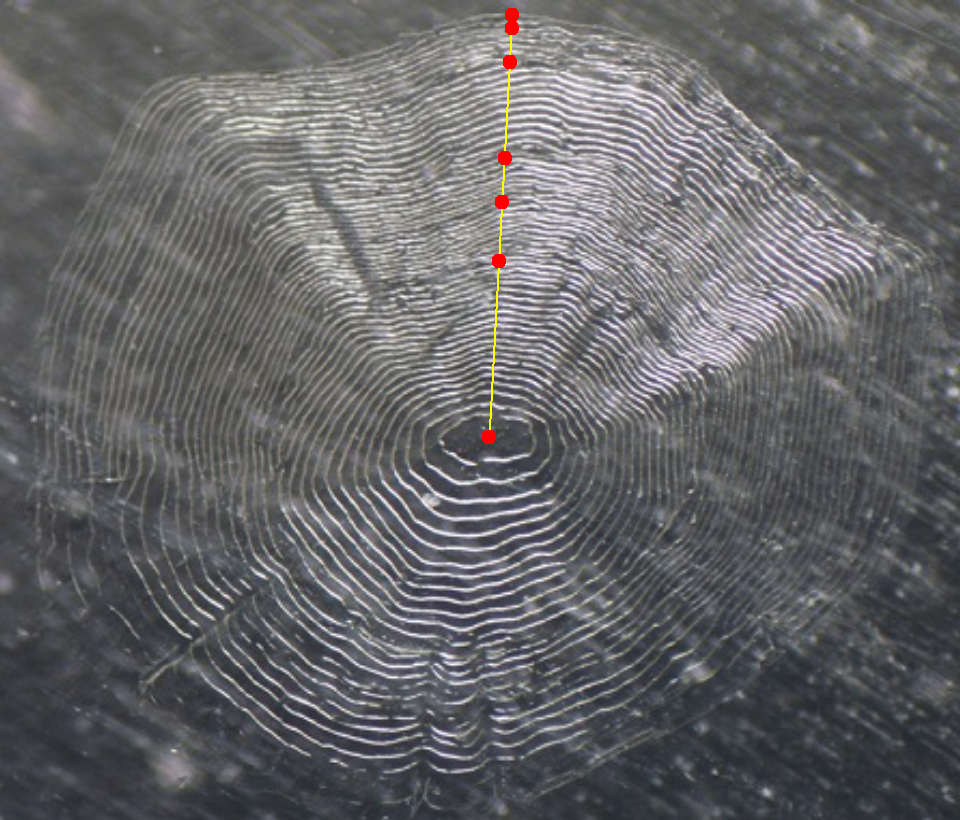
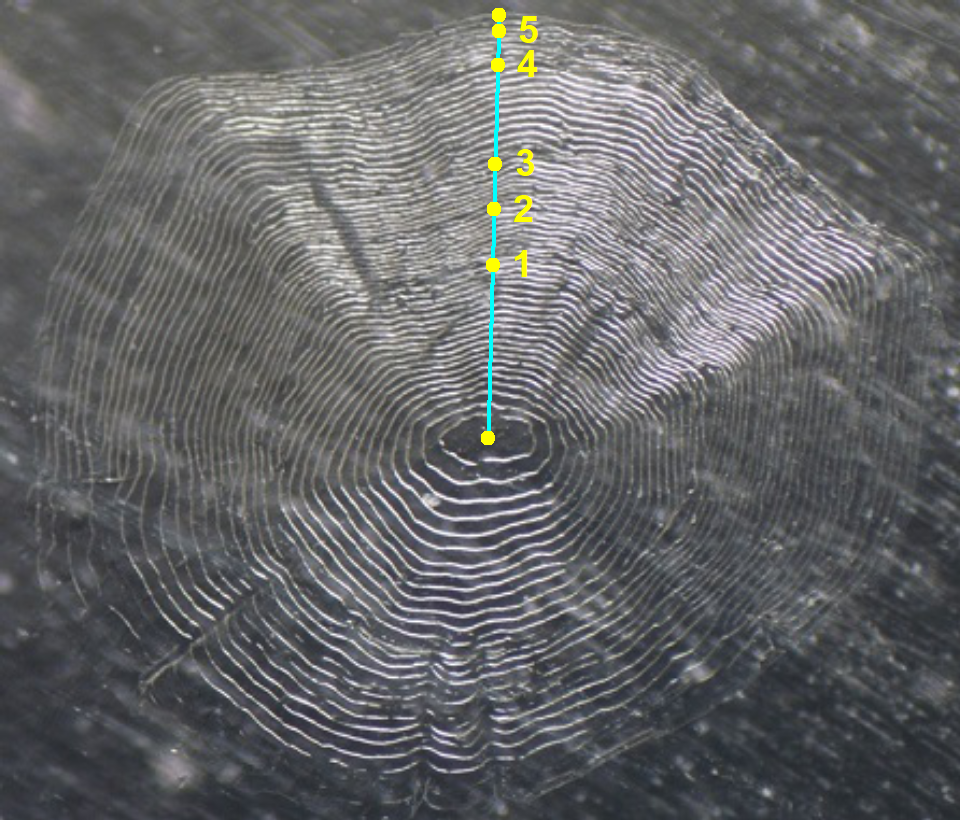
Updated webpage

Changed region(s): [[0.5, 0.0, 0.5625, 0.5488]]

diff --git a/docs/reference/RFBCoptions.html b/docs/reference/RFBCoptions.html
@@ -163,22 +163,26 @@ Additionally, a user may want to change a number of these arguments from their d
 <li><p><code>scalingFactor</code>: A single numeric used to convert measurements on the structure image to actual measurements on the structure. Measurements on the structure image will be multiplied by this value. Ignored if <code>scaleBar=TRUE</code>. Defaults to <code>1</code>. Used in <code><a href='digitizeRadii.html'>digitizeRadii</a></code>.</p></li>
 <li><p><code>scaleBar</code>: A single logical that indicates whether the user will be prompted to select the endpoints of a scale-bar on the structure image. If <code>TRUE</code>, then must also use <code>scaleBarLength</code>. If <code>FALSE</code>, then consider using <code>scalingFactor</code>. Defaults to <code>FALSE</code>. Used in <code><a href='digitizeRadii.html'>digitizeRadii</a></code>.</p></li>
 <li><p><code>scaleBarLength</code>: A single numeric that represents the actual length of the scale-bar. Ignored if <code>scaleBar=FALSE</code>. Defaults to <code>NULL</code>; thus, the user must enter a value if <code>scaleBar=TRUE</code>. Used in <code><a href='digitizeRadii.html'>digitizeRadii</a></code>.</p></li>
-<li><p><code>col.scaleBar</code>: The color of the scale-bar line if <code>scalebar=TRUE</code>. Defaults to <code>"red"</code>. Used in <code><a href='digitizeRadii.html'>digitizeRadii</a></code>, <code><a href='showDigitizedImage.html'>showDigitizedImage</a></code>, and <code><a href='findScalingFactor.html'>findScalingFactor</a></code>.</p></li>
+<li><p><code>col.scaleBar</code>: The color of the scale-bar line if <code>scalebar=TRUE</code>. Defaults to <code>"yellow"</code>. Used in <code><a href='digitizeRadii.html'>digitizeRadii</a></code>, <code><a href='showDigitizedImage.html'>showDigitizedImage</a></code>, and <code><a href='findScalingFactor.html'>findScalingFactor</a></code>.</p></li>
 <li><p><code>lwd.scaleBar</code>: The line width of the scale-bar line if <code>scalebar=TRUE</code>. Defaults to <code>2</code>. Used in <code><a href='digitizeRadii.html'>digitizeRadii</a></code>, <code><a href='showDigitizedImage.html'>showDigitizedImage</a></code>, and <code><a href='findScalingFactor.html'>findScalingFactor</a></code>.</p></li>
 <li><p><code>showTransect</code>: A single logical that indicates whether the transection between the points selected at the structure center and margin should be shown. Defaults to <code>TRUE</code>. Used in <code><a href='digitizeRadii.html'>digitizeRadii</a></code> and  <code><a href='showDigitizedImage.html'>showDigitizedImage</a></code>.</p></li>
 <li><p><code>snap2Transect</code>: A single logical that indicates whether the coordinates of the selected points that represent annuli should be moved to fall exactly on the transect from the structure center to margin. If <code>TRUE</code> then the points will be moved perpendicularly to the transect (and the original user-selected point will not be seen on the image). If <code>FALSE</code> then the points will be where the user selected them. Defaults to <code>TRUE</code>. Used in <code><a href='digitizeRadii.html'>digitizeRadii</a></code>.</p></li>
-<li><p><code>col.transect</code>: The color of the transect line if <code>showTransect=TRUE</code> in <code><a href='digitizeRadii.html'>digitizeRadii</a></code> or <code>showTransect=TRUE</code> in <code><a href='showDigitizedImage.html'>showDigitizedImage</a></code>. Defaults to <code>"yellow"</code>.</p></li>
-<li><p><code>lwd.transect</code>: The width of the transect line if <code>showTransect=TRUE</code> in <code><a href='digitizeRadii.html'>digitizeRadii</a></code> or <code>showTransect=TRUE</code> in <code><a href='showDigitizedImage.html'>showDigitizedImage</a></code>. Defaults to <code>1</code>.</p></li>
-<li><p><code>pch.sel</code>: The plotting character of points for selected annuli in <code><a href='digitizeRadii.html'>digitizeRadii</a></code>. Defaults to <code>3</code> (a &#8220;cross hairs&#8221;).</p></li>
-<li><p><code>col.sel</code>: The color of points for selected annuli in <code><a href='digitizeRadii.html'>digitizeRadii</a></code>. Defaults to <code>"red"</code>.</p></li>
+<li><p><code>col.transect</code>: The color of the transect line if <code>showTransect=TRUE</code>. Defaults to <code>"cyan"</code>. Used  in <code><a href='digitizeRadii.html'>digitizeRadii</a></code> or <code>showTransect=TRUE</code> in <code><a href='showDigitizedImage.html'>showDigitizedImage</a></code>.</p></li>
+<li><p><code>lwd.transect</code>: The width of the transect line if <code>showTransect=TRUE</code>. Defaults to <code>2</code>. Used  in <code><a href='digitizeRadii.html'>digitizeRadii</a></code> or <code>showTransect=TRUE</code> in <code><a href='showDigitizedImage.html'>showDigitizedImage</a></code>.</p></li>
+<li><p><code>pch.sel</code>: The plotting character of points for selected annuli in <code><a href='digitizeRadii.html'>digitizeRadii</a></code>. Defaults to <code>20</code> (a small solid circle).</p></li>
+<li><p><code>col.sel</code>: The color of points for selected annuli in <code><a href='digitizeRadii.html'>digitizeRadii</a></code>. Defaults to <code>"yellow"</code>.</p></li>
 <li><p><code>cex.sel</code>: The character expansion value of points for selected annuli in <code><a href='digitizeRadii.html'>digitizeRadii</a></code>. Defaults to <code>1</code>.</p></li>
-<li><p><code>pch.show</code>: The plotting character for points shown in <code><a href='showDigitizedImage.html'>showDigitizedImage</a></code>. Defaults to <code>19</code> (a solid dot).</p></li>
-<li><p><code>col.show</code>: The color of points shown in <code><a href='showDigitizedImage.html'>showDigitizedImage</a></code>. Defaults to <code>"red"</code>.</p></li>
+<li><p><code>pch.show</code>: The plotting character for points shown in <code><a href='showDigitizedImage.html'>showDigitizedImage</a></code>. Defaults to <code>19</code> (a solid circle).</p></li>
+<li><p><code>col.show</code>: The color of points shown in <code><a href='showDigitizedImage.html'>showDigitizedImage</a></code>. Defaults to <code>"yellow"</code>.</p></li>
 <li><p><code>cex.show</code>: The character expansion value of points shown in <code><a href='showDigitizedImage.html'>showDigitizedImage</a></code>. Defaults to <code>1</code>.</p></li>
 <li><p><code>showInfo</code>: A single logical that indicates whether the ID information should be shown on the image in <code><a href='digitizeRadii.html'>digitizeRadii</a></code>. Defaults to <code>TRUE</code>.</p></li>
 <li><p><code>pos.info</code>: A single character that indicates where the ID information should be placed when <code>showInfo=TRUE</code>. See <code>legend</code> for position choices. Defaults to <code>"topleft"</code>. Used in <code><a href='digitizeRadii.html'>digitizeRadii</a></code>.</p></li>
-<li><p><code>cex.info</code>: The character expansion for the ID information when <code>showInfo=TRUE</code>. Used in <code><a href='digitizeRadii.html'>digitizeRadii</a></code>.</p></li>
-<li><p><code>col.info</code>: The color for the ID information when <code>showInfo=TRUE</code>. Used in <code><a href='digitizeRadii.html'>digitizeRadii</a></code>.</p></li>
+<li><p><code>cex.info</code>: The character expansion for the ID information when <code>showInfo=TRUE</code>. Defaults to <code>1.2</code> Used in <code><a href='digitizeRadii.html'>digitizeRadii</a></code>.</p></li>
+<li><p><code>col.info</code>: The color for the ID information when <code>showInfo=TRUE</code>. Defaults to <code>"yellow"</code>. Used in <code><a href='digitizeRadii.html'>digitizeRadii</a></code>.</p></li>
+<li><p><code>showAnnuliLabels</code>: A single logical that indicates whether annulus labels should be shown on the image from <code><a href='showDigitizedImage.html'>showDigitizedImage</a></code>. Defaults to <code>TRUE</code>, but is ignored if more than one set of annuli will be plotted.</p></li>
+<li><p><code>annuliLabels</code>: A numeric vector that indicates the numbers for which annuli should be labeled when <code>showAnnuliLabels=TRUE</code>. Defaults to <code>NULL</code> which indicates that all annuli should be labelled. Used in <code><a href='showDigitizedImage.html'>showDigitizedImage</a></code>.</p></li>
+<li><p><code>col.ann</code>: The color of the annuli number text when <code>showAnnuliLabels=TRUE</code> in <code><a href='showDigitizedImage.html'>showDigitizedImage</a></code>. Defaults to <code>"yellow"</code>.</p></li>
+<li><p><code>cex.ann</code>: The character expansion value  of the annuli number text when <code>showAnnuliLabels=TRUE</code> in <code><a href='showDigitizedImage.html'>showDigitizedImage</a></code>. Defaults to <code>1.2</code>.</p></li>
 </ul>
     <p>The user will likely only use this function to change arguments at the start of a script, so that those values will be used throughout the analyses in the script. If the values for the arguments need to be changed in any instance of <code><a href='digitizeRadii.html'>digitizeRadii</a></code> or <code><a href='showDigitizedImage.html'>showDigitizedImage</a></code>, then it is more efficient to change the argument within the call to those functions.</p>
 <p>The argument values can be reset to the original defaults by using <code>reset=TRUE</code>. See examples.</p>
@@ -221,7 +225,7 @@ Additionally, a user may want to change a number of these arguments from their d
 #&gt; NULL
 #&gt; 
 #&gt; $col.scaleBar
-#&gt; [1] "red"
+#&gt; [1] "yellow"
 #&gt; 
 #&gt; $lwd.scaleBar
 #&gt; [1] 2
@@ -233,16 +237,16 @@ Additionally, a user may want to change a number of these arguments from their d
 #&gt; [1] TRUE
 #&gt; 
 #&gt; $col.transect
-#&gt; [1] "yellow"
+#&gt; [1] "cyan"
 #&gt; 
 #&gt; $lwd.transect
-#&gt; [1] 1
+#&gt; [1] 2
 #&gt; 
 #&gt; $pch.sel
-#&gt; [1] 3
+#&gt; [1] 20
 #&gt; 
 #&gt; $col.sel
-#&gt; [1] "red"
+#&gt; [1] "yellow"
 #&gt; 
 #&gt; $cex.sel
 #&gt; [1] 1
@@ -251,7 +255,7 @@ Additionally, a user may want to change a number of these arguments from their d
 #&gt; [1] 19
 #&gt; 
 #&gt; $col.show
-#&gt; [1] "red"
+#&gt; [1] "yellow"
 #&gt; 
 #&gt; $cex.show
 #&gt; [1] 1
@@ -262,11 +266,23 @@ Additionally, a user may want to change a number of these arguments from their d
 #&gt; $pos.info
 #&gt; [1] "topleft"
 #&gt; 
-#&gt; $cex.info
-#&gt; [1] 1.5
-#&gt; 
 #&gt; $col.info
 #&gt; [1] "yellow"
+#&gt; 
+#&gt; $cex.info
+#&gt; [1] 1.2
+#&gt; 
+#&gt; $showAnnuliLabels
+#&gt; [1] TRUE
+#&gt; 
+#&gt; $annuliLabels
+#&gt; NULL
+#&gt; 
+#&gt; $col.ann
+#&gt; [1] "yellow"
+#&gt; 
+#&gt; $cex.ann
+#&gt; [1] 1.2
 #&gt; </div><div class='input'>
 <span class='co'>## Show how to see and set one option</span>
 <span class='fu'>RFBCoptions</span>()$<span class='no'>showTransect</span></div><div class='output co'>#&gt; [1] TRUE</div><div class='input'><span class='fu'>RFBCoptions</span>(<span class='kw'>showTransect</span><span class='kw'>=</span><span class='fl'>FALSE</span>)

diff --git a/docs/articles/MeasureRadii/collectRadiiData.html b/docs/articles/MeasureRadii/collectRadiiData.html
@@ -252,12 +252,12 @@
 <p>The radial measurements from one structure may be seen by submitting the RData file name to <code><a href="../../reference/combineData.html">combineData()</a></code> (which assumes that the file is in the current working directory).</p>
 <div class="sourceCode"><pre class="sourceCode r"><code class="sourceCode r"><span class="kw"><a href="../../reference/combineData.html">combineData</a></span>(<span class="st">"Scale_1_DHO.RData"</span>)
 <span class="co">#&gt;   id reading agecap ann       rad    radcap</span>
-<span class="co">#&gt; 1  1     DHO      5   1 0.2146921 0.5146925</span>
-<span class="co">#&gt; 2  1     DHO      5   2 0.2861414 0.5146925</span>
-<span class="co">#&gt; 3  1     DHO      5   3 0.3403185 0.5146925</span>
-<span class="co">#&gt; 4  1     DHO      5   4 0.4571711 0.5146925</span>
-<span class="co">#&gt; 5  1     DHO      5   5 0.4990236 0.5146925</span>
-<span class="co">#&gt; 6  1     DHO      5   6 0.5146925 0.5146925</span></code></pre></div>
+<span class="co">#&gt; 1  1     DHO      5   1 0.2109034 0.5158677</span>
+<span class="co">#&gt; 2  1     DHO      5   2 0.2788706 0.5158677</span>
+<span class="co">#&gt; 3  1     DHO      5   3 0.3346104 0.5158677</span>
+<span class="co">#&gt; 4  1     DHO      5   4 0.4549023 0.5158677</span>
+<span class="co">#&gt; 5  1     DHO      5   5 0.4967415 0.5158677</span>
+<span class="co">#&gt; 6  1     DHO      5   6 0.5158677 0.5158677</span></code></pre></div>
 <p> </p>
 <p> </p>
 <hr>
@@ -281,18 +281,18 @@
 <p>The result of <code><a href="../../reference/listFiles.html">listFiles()</a></code> should be saved to an object so that the list of name can be given to <code><a href="../../reference/combineData.html">combineData()</a></code> as shown below.</p>
 <div class="sourceCode"><pre class="sourceCode r"><code class="sourceCode r">( dfrad &lt;-<span class="st"> </span><span class="kw"><a href="../../reference/combineData.html">combineData</a></span>(fns) )
 <span class="co">#&gt;    id reading agecap ann       rad    radcap</span>
-<span class="co">#&gt; 1   1     DHO      5   1 0.2146921 0.5146925</span>
-<span class="co">#&gt; 2   1     DHO      5   2 0.2861414 0.5146925</span>
-<span class="co">#&gt; 3   1     DHO      5   3 0.3403185 0.5146925</span>
-<span class="co">#&gt; 4   1     DHO      5   4 0.4571711 0.5146925</span>
-<span class="co">#&gt; 5   1     DHO      5   5 0.4990236 0.5146925</span>
-<span class="co">#&gt; 6   1     DHO      5   6 0.5146925 0.5146925</span>
-<span class="co">#&gt; 7   2     DHO      5   1 0.1620637 0.4651991</span>
-<span class="co">#&gt; 8   2     DHO      5   2 0.2544591 0.4651991</span>
-<span class="co">#&gt; 9   2     DHO      5   3 0.3387704 0.4651991</span>
-<span class="co">#&gt; 10  2     DHO      5   4 0.4214229 0.4651991</span>
-<span class="co">#&gt; 11  2     DHO      5   5 0.4505943 0.4651991</span>
-<span class="co">#&gt; 12  2     DHO      5   6 0.4651991 0.4651991</span></code></pre></div>
+<span class="co">#&gt; 1   1     DHO      5   1 0.2109034 0.5158677</span>
+<span class="co">#&gt; 2   1     DHO      5   2 0.2788706 0.5158677</span>
+<span class="co">#&gt; 3   1     DHO      5   3 0.3346104 0.5158677</span>
+<span class="co">#&gt; 4   1     DHO      5   4 0.4549023 0.5158677</span>
+<span class="co">#&gt; 5   1     DHO      5   5 0.4967415 0.5158677</span>
+<span class="co">#&gt; 6   1     DHO      5   6 0.5158677 0.5158677</span>
+<span class="co">#&gt; 7   2     DHO      5   1 0.1247997 0.3804210</span>
+<span class="co">#&gt; 8   2     DHO      5   2 0.2212460 0.3804210</span>
+<span class="co">#&gt; 9   2     DHO      5   3 0.2920932 0.3804210</span>
+<span class="co">#&gt; 10  2     DHO      5   4 0.3427057 0.3804210</span>
+<span class="co">#&gt; 11  2     DHO      5   5 0.3620875 0.3804210</span>
+<span class="co">#&gt; 12  2     DHO      5   6 0.3804210 0.3804210</span></code></pre></div>
 </div>
 <div id="output-data-file" class="section level1">
 <h1 class="hasAnchor">
@@ -303,27 +303,27 @@
 <span class="st">  </span><span class="kw">inner_join</span>(dfrad,<span class="dt">by=</span><span class="st">"id"</span>)
 dffish
 <span class="co">#&gt;    id  loc sex len reading agecap ann       rad    radcap</span>
-<span class="co">#&gt; 1   1 MI-5   M 189     DHO      5   1 0.2146921 0.5146925</span>
-<span class="co">#&gt; 2   1 MI-5   M 189     DHO      5   2 0.2861414 0.5146925</span>
-<span class="co">#&gt; 3   1 MI-5   M 189     DHO      5   3 0.3403185 0.5146925</span>
-<span class="co">#&gt; 4   1 MI-5   M 189     DHO      5   4 0.4571711 0.5146925</span>
-<span class="co">#&gt; 5   1 MI-5   M 189     DHO      5   5 0.4990236 0.5146925</span>
-<span class="co">#&gt; 6   1 MI-5   M 189     DHO      5   6 0.5146925 0.5146925</span>
-<span class="co">#&gt; 7   2 MI-6   F 210     DHO      5   1 0.1620637 0.4651991</span>
-<span class="co">#&gt; 8   2 MI-6   F 210     DHO      5   2 0.2544591 0.4651991</span>
-<span class="co">#&gt; 9   2 MI-6   F 210     DHO      5   3 0.3387704 0.4651991</span>
-<span class="co">#&gt; 10  2 MI-6   F 210     DHO      5   4 0.4214229 0.4651991</span>
-<span class="co">#&gt; 11  2 MI-6   F 210     DHO      5   5 0.4505943 0.4651991</span>
-<span class="co">#&gt; 12  2 MI-6   F 210     DHO      5   6 0.4651991 0.4651991</span></code></pre></div>
+<span class="co">#&gt; 1   1 MI-5   M 189     DHO      5   1 0.2109034 0.5158677</span>
+<span class="co">#&gt; 2   1 MI-5   M 189     DHO      5   2 0.2788706 0.5158677</span>
+<span class="co">#&gt; 3   1 MI-5   M 189     DHO      5   3 0.3346104 0.5158677</span>
+<span class="co">#&gt; 4   1 MI-5   M 189     DHO      5   4 0.4549023 0.5158677</span>
+<span class="co">#&gt; 5   1 MI-5   M 189     DHO      5   5 0.4967415 0.5158677</span>
+<span class="co">#&gt; 6   1 MI-5   M 189     DHO      5   6 0.5158677 0.5158677</span>
+<span class="co">#&gt; 7   2 MI-6   F 210     DHO      5   1 0.1247997 0.3804210</span>
+<span class="co">#&gt; 8   2 MI-6   F 210     DHO      5   2 0.2212460 0.3804210</span>
+<span class="co">#&gt; 9   2 MI-6   F 210     DHO      5   3 0.2920932 0.3804210</span>
+<span class="co">#&gt; 10  2 MI-6   F 210     DHO      5   4 0.3427057 0.3804210</span>
+<span class="co">#&gt; 11  2 MI-6   F 210     DHO      5   5 0.3620875 0.3804210</span>
+<span class="co">#&gt; 12  2 MI-6   F 210     DHO      5   6 0.3804210 0.3804210</span></code></pre></div>
 <p>Some people prefer that the data be presented in “one-fish-per-line” rather than “one-measurement-per-line” (as in <code>dffish</code>) format. The one-measurement-per-line data.frame can be converted to one-fish-per-line by including it as the first argument to <code>spread()</code>. In addition, the variable that identifies the annuli number must be included in <code>key=</code> and the variable that identifies the radial measurements must be included in <code>value=</code>. The <code>sep=</code> argument is used here as well so that the column names in the resultant data.frame are not simply numbers. In this case, the new variable names will be a combination of the variable name in <code>key=</code>, the string in <code>sep=</code>, and the numbers in the <code>value=</code> variable.</p>
 <div class="sourceCode"><pre class="sourceCode r"><code class="sourceCode r">dffish2 &lt;-<span class="st"> </span><span class="kw">spread</span>(dffish,<span class="dt">key=</span>ann,<span class="dt">value=</span>rad,<span class="dt">sep=</span><span class="st">"rad"</span>)
 dffish2
 <span class="co">#&gt;   id  loc sex len reading agecap    radcap   annrad1   annrad2   annrad3</span>
-<span class="co">#&gt; 1  1 MI-5   M 189     DHO      5 0.5146925 0.2146921 0.2861414 0.3403185</span>
-<span class="co">#&gt; 2  2 MI-6   F 210     DHO      5 0.4651991 0.1620637 0.2544591 0.3387704</span>
+<span class="co">#&gt; 1  1 MI-5   M 189     DHO      5 0.5158677 0.2109034 0.2788706 0.3346104</span>
+<span class="co">#&gt; 2  2 MI-6   F 210     DHO      5 0.3804210 0.1247997 0.2212460 0.2920932</span>
 <span class="co">#&gt;     annrad4   annrad5   annrad6</span>
-<span class="co">#&gt; 1 0.4571711 0.4990236 0.5146925</span>
-<span class="co">#&gt; 2 0.4214229 0.4505943 0.4651991</span></code></pre></div>
+<span class="co">#&gt; 1 0.4549023 0.4967415 0.5158677</span>
+<span class="co">#&gt; 2 0.3427057 0.3620875 0.3804210</span></code></pre></div>
 <p>Either file can be written to a “comma-separated values” (CSV) file<a href="#fn10" class="footnoteRef" id="fnref10"><sup>10</sup></a> with <code>write.csv()</code> using the R object name (e.g., <code>dffish</code> or <code>dffish2</code>) as the first argument and a name for the file in <code>file=</code>. Additionally, I prefer to have non-quoted values by using <code>quote=FALSE</code> and no row names by using <code>row.names=FALSE</code>. For example, the “one-measurement-per-line” data can be output to “Kiyi2014_BCs.csv” as follows.</p>
 <div class="sourceCode"><pre class="sourceCode r"><code class="sourceCode r"><span class="kw">write.csv</span>(dffish,<span class="dt">file=</span><span class="st">"Kiyi2014_BCs.csv"</span>,<span class="dt">quote=</span><span class="ot">FALSE</span>,<span class="dt">row.names=</span><span class="ot">FALSE</span>)</code></pre></div>
 <p> </p>

diff --git a/docs/articles/MeasureRadii/seeRadiiData.html b/docs/articles/MeasureRadii/seeRadiiData.html
@@ -108,6 +108,7 @@
 <ul>
 <li>“Scale_1_DHO.RData”: annular points selected on the “Scale_1.jpg” file in the <a href="collectRadiiData.html">Collecting Radial Measurements</a> vignette.</li>
 <li>“Scale_1_DHO2.RData”: a second set of annular points selected on the “Scale_1.jpg” file in the <a href="collectRadiiData.html">Collecting Radial Measurements</a> vignette.</li>
+<li>“Scale_1_DHO3.RData”: a third set of annular points selected on the “Scale_1.jpg” file in the <a href="collectRadiiData.html">Collecting Radial Measurements</a> vignette.</li>
 <li>“Oto140306_DHO.RData”: annular points selected on the “Oto140306.jpg” file. In contrast to the previous two images, this image had a 1-mm scale-bar. This RData file was created with the following code.</li>
 </ul>
 <div class="sourceCode"><pre class="sourceCode r"><code class="sourceCode r"><span class="kw"><a href="../../reference/digitizeRadii.html">digitizeRadii</a></span>(<span class="st">"Oto140306.jpg"</span>,<span class="dt">id=</span><span class="st">"140306"</span>,<span class="dt">reading=</span><span class="st">"DHO"</span>,
@@ -123,11 +124,12 @@
 <div id="visualize-one-set-of-annuli" class="section level1">
 <h1 class="hasAnchor">
 <a href="#visualize-one-set-of-annuli" class="anchor"></a>Visualize one Set of Annuli</h1>
-<p>You can review the selected annuli on a structure with <code><a href="../../reference/showDigitizedImage.html">showDigitizedImage()</a></code>, which requires only the name of an RData file creates from <code><a href="../../reference/digitizeRadii.html">digitizeRadii()</a></code>.<a href="#fn1" class="footnoteRef" id="fnref1"><sup>1</sup></a> The plotting character, color, and relative size of the selected points may be changed with <code>pch.show=</code>, <code>col.show=</code>, and <code>cex.show=</code>, respectively. The color and width of the “transect” may be changed with <code>col.transect=</code> and <code>lwd.transect=</code>, or excluded altogether with <code>showTransect=FALSE</code>. Defaults for these arguments can be set with <code><a href="../../reference/RFBCoptions.html">RFBCoptions()</a></code> as was demonstrated in the <a href="collectRadiiData.html#setoptions1">Setting Arguments section of this vignette</a></p>
+<p>You can review the selected annuli on a structure with <code><a href="../../reference/showDigitizedImage.html">showDigitizedImage()</a></code>, which requires only the name of an RData file creates from <code><a href="../../reference/digitizeRadii.html">digitizeRadii()</a></code>.<a href="#fn1" class="footnoteRef" id="fnref1"><sup>1</sup></a> The plotting character, color, and relative size of the selected points may be changed with <code>pch.show=</code>, <code>col.show=</code>, and <code>cex.show=</code>, respectively. The color and width of the “transect” may be changed with <code>col.transect=</code> and <code>lwd.transect=</code>, or excluded altogether with <code>showTransect=FALSE</code>. Annuli will be numbered if <code>showAnnuliLabels=TRUE</code> (the default) with label colors and relative size changed with <code>col.ann=</code> and <code>cex.ann=</code>, respectively. Annuli for which numbers are plotted may be controlled with <code>annuliLabels=</code> (e.g., only the first six are shown for the Kiyi otolith below). Defaults for these arguments can be set with <code><a href="../../reference/RFBCoptions.html">RFBCoptions()</a></code> as was demonstrated in the <a href="collectRadiiData.html#setoptions1">Setting Arguments section of this vignette</a></p>
 <div class="sourceCode"><pre class="sourceCode r"><code class="sourceCode r"><span class="kw"><a href="../../reference/showDigitizedImage.html">showDigitizedImage</a></span>(<span class="st">"Scale_1_DHO.RData"</span>)</code></pre></div>
 <p><img src="seeRadiiData_files/figure-html/unnamed-chunk-4-1.png" width="480"></p>
 <div class="sourceCode"><pre class="sourceCode r"><code class="sourceCode r"><span class="kw"><a href="../../reference/showDigitizedImage.html">showDigitizedImage</a></span>(<span class="st">"Oto140306_DHO.RData"</span>,<span class="dt">pch.show=</span><span class="st">"+"</span>,<span class="dt">col.show=</span><span class="st">"blue"</span>,
-                   <span class="dt">col.transect=</span><span class="st">"white"</span>,<span class="dt">lwd.transect=</span><span class="dv">2</span>)</code></pre></div>
+                   <span class="dt">col.transect=</span><span class="st">"white"</span>,<span class="dt">col.ann=</span><span class="st">"black"</span>,<span class="dt">cex.ann=</span><span class="dv">1</span>,
+                   <span class="dt">annuliLabels=</span><span class="dv">1</span><span class="op">:</span><span class="dv">6</span>)</code></pre></div>
 <p><img src="seeRadiiData_files/figure-html/unnamed-chunk-6-1.png" width="480"></p>
 <p> </p>
 <p> </p>
@@ -147,7 +149,7 @@
 <p>The multiple readings of “Scale_1” can be seen by giving this set of filenames to <code><a href="../../reference/showDigitizedImage.html">showDigitizedImage()</a></code>.</p>
 <div class="sourceCode"><pre class="sourceCode r"><code class="sourceCode r"><span class="kw"><a href="../../reference/showDigitizedImage.html">showDigitizedImage</a></span>(fns)</code></pre></div>
 <p><img src="seeRadiiData_files/figure-html/unnamed-chunk-10-1.png" width="480"></p>
-<p>Aspects of the transects and points may be controlled with arguments to <code>showDigitezedData()</code>. For example, the code below uses different colors for each transect and points, and a thicker line for each transect.</p>
+<p>Aspects of the transects and points may be controlled with arguments to <code>showDigitezedData()</code>. For example, the code below uses different colors for each transect and points.</p>
 <div class="sourceCode"><pre class="sourceCode r"><code class="sourceCode r"><span class="kw"><a href="../../reference/showDigitizedImage.html">showDigitizedImage</a></span>(fns,<span class="dt">col.transect=</span><span class="kw">c</span>(<span class="st">"red"</span>,<span class="st">"yellow"</span>,<span class="st">"green"</span>),
                    <span class="dt">col.show=</span><span class="kw">c</span>(<span class="st">"yellow"</span>,<span class="st">"red"</span>,<span class="st">"blue"</span>),<span class="dt">lwd.transect=</span><span class="dv">2</span>)</code></pre></div>
 <p><img src="seeRadiiData_files/figure-html/unnamed-chunk-12-1.png" width="480"></p>

diff --git a/docs/news/index.html b/docs/news/index.html
@@ -126,13 +126,19 @@
 <li>
 <code><a href="../reference/digitizeRadii.html">digitizeRadii()</a></code>: Modified. Slight modification to the messages in the console. Re worked the code with <code>locator()</code> so that the points will be shown “snapped to the transect” if <code>snap2Transect=TRUE</code> (this addresses <a href="https://github.com/droglenc/RFishBC/issues/7"><a href='https://github.com/droglenc/RFishBC/issues/7'>#7</a></a>). Added an <code>orig.pts</code> data.frame to the RData object which contains the original (non-snapped to transect) points (which can be plotted with <code><a href="../reference/showDigitizedImage.html">showDigitizedImage()</a></code>). Changed <code>addTransect=</code> to <code>showTransect=</code> to make more similar to <code>showDigitezedImages()</code>.</li>
 <li>
-<code><a href="../reference/showDigitizedImage.html">showDigitizedImage()</a></code>: Modified. Added <code>showOrigPts=</code>, <code>pch.show2=</code>, <code>col.show2=</code>, and <code>cex.show2=</code> to handle including original points on the image.</li>
+<code><a href="../reference/RFBCoptions.html">RFBCoptions()</a></code>: Modified. Added <code>showAnnuliLabels=</code>, <code>col.ann=</code>, and <code>cex.ann=</code> for use in <code><a href="../reference/showDigitizedImage.html">showDigitizedImage()</a></code>. Changed defaults of mostly colors, pchs, and cexs.</li>
+<li>
+<code><a href="../reference/showDigitizedImage.html">showDigitizedImage()</a></code>: Modified. Added <code>showAnnuliLabels=</code>, <code>col.ann=</code>, and <code>cex.ann=</code> to shown annuli numbers when just one transect is shown. Added <code>showOrigPts=</code>, <code>pch.show2=</code>, <code>col.show2=</code>, and <code>cex.show2=</code> to handle including original points on the image.</li>
 <li>
 <code><a href="../reference/FSA-internals.html">iFindTransect()</a></code>: Added. Moved this code out of <code>iSelectAnnuli()</code>.</li>
 <li>
 <code><a href="../reference/FSA-internals.html">iGetImage()</a></code>: Modified. Streamlined code. Added <code>native=TRUE</code> to <code>read.bitmap()</code> call to send to the underlying functions as this is apparently more efficient when using <code>rasterImage()</code> (which this uses).</li>
 <li>
+<code>iOrderPts()</code>: Added. Made it easier to add annuli labels in <code><a href="../reference/showDigitizedImage.html">showDigitizedImage()</a></code>.</li>
+<li>
 <code>iSelectAnnuli()</code>: Modified. Now calls <code>iSelectTransect()</code>.</li>
+<li>
+<code>iShowAnnuliLabels()</code>: Added. Made it easier to add annuli labels in <code><a href="../reference/showDigitizedImage.html">showDigitizedImage()</a></code>.</li>
 <li>
 <code>ishowTransect()</code>: Added. Moved this code out of <code>iSelectAnnuli()</code>. Also called from <code><a href="../reference/showDigitizedImage.html">showDigitizedImage()</a></code>.</li>
 </ul>

diff --git a/docs/reference/bcFuns.html b/docs/reference/bcFuns.html
@@ -189,14 +189,14 @@
     <h2 class="hasAnchor" id="examples"><a class="anchor" href="#examples"></a>Examples</h2>
     <pre class="examples"><div class='input'><span class='co'>## Simple Examples</span>
 ( <span class='no'>bcm1</span> <span class='kw'>&lt;-</span> <span class='fu'>bcFuns</span>(<span class='fl'>1</span>) )</div><div class='output co'>#&gt; function(Lc,Ri,Rc) { (Ri/Rc)*Lc }
-#&gt; &lt;environment: 0x0000000015e8f0b8&gt;</div><div class='input'><span class='fu'>bcm1</span>(<span class='fl'>20</span>,<span class='fl'>10</span>,<span class='fl'>40</span>)</div><div class='output co'>#&gt; [1] 5</div><div class='input'>
+#&gt; &lt;environment: 0x00000000081fa658&gt;</div><div class='input'><span class='fu'>bcm1</span>(<span class='fl'>20</span>,<span class='fl'>10</span>,<span class='fl'>40</span>)</div><div class='output co'>#&gt; [1] 5</div><div class='input'>
 <span class='co'>## Example with dummy length-at-cap, radii-at-cap, and radii-at-age</span>
 <span class='no'>lencap</span> <span class='kw'>&lt;-</span> <span class='fu'>c</span>(<span class='fl'>100</span>,<span class='fl'>100</span>,<span class='fl'>100</span>,<span class='fl'>150</span>,<span class='fl'>150</span>)
 <span class='no'>radcap</span> <span class='kw'>&lt;-</span> <span class='fu'>c</span>(<span class='fl'>20</span>,<span class='fl'>20</span>,<span class='fl'>20</span>,<span class='fl'>30</span>,<span class='fl'>30</span>)
 <span class='no'>rad</span>    <span class='kw'>&lt;-</span> <span class='fu'>c</span>( <span class='fl'>5</span>,<span class='fl'>10</span>,<span class='fl'>15</span>,<span class='fl'>15</span>,<span class='fl'>25</span>)
 <span class='fu'>bcm1</span>(<span class='no'>lencap</span>,<span class='no'>rad</span>,<span class='no'>radcap</span>)</div><div class='output co'>#&gt; [1]  25  50  75  75 125</div><div class='input'>
 ( <span class='no'>bcm2</span> <span class='kw'>&lt;-</span> <span class='fu'>bcFuns</span>(<span class='st'>"FRALE"</span>) )</div><div class='output co'>#&gt; function(Lc,Ri,Rc,a) { a+(Lc-a)*(Ri/Rc) }
-#&gt; &lt;environment: 0x0000000015c32ce0&gt;</div><div class='input'><span class='fu'>bcm2</span>(<span class='no'>lencap</span>,<span class='no'>rad</span>,<span class='no'>radcap</span>,<span class='fl'>2</span>)  <span class='co'># demonstrated with a=2</span></div><div class='output co'>#&gt; [1]  26.5000  51.0000  75.5000  76.0000 125.3333</div><div class='input'>
+#&gt; &lt;environment: 0x0000000007f6c0b0&gt;</div><div class='input'><span class='fu'>bcm2</span>(<span class='no'>lencap</span>,<span class='no'>rad</span>,<span class='no'>radcap</span>,<span class='fl'>2</span>)  <span class='co'># demonstrated with a=2</span></div><div class='output co'>#&gt; [1]  26.5000  51.0000  75.5000  76.0000 125.3333</div><div class='input'>
 </div></pre>
   </div>
   <div class="col-md-3 hidden-xs hidden-sm" id="sidebar">

diff --git a/docs/reference/showDigitizedImage.html b/docs/reference/showDigitizedImage.html
@@ -130,8 +130,9 @@
     </div>
 
     <pre class="usage"><span class='fu'>showDigitizedImage</span>(<span class='no'>nm</span>, <span class='no'>sepWindow</span>, <span class='no'>pch.show</span>, <span class='no'>col.show</span>, <span class='no'>cex.show</span>, <span class='no'>showTransect</span>,
-  <span class='no'>col.transect</span>, <span class='no'>lwd.transect</span>, <span class='no'>col.scaleBar</span>, <span class='no'>lwd.scaleBar</span>, <span class='kw'>showOrigPts</span> <span class='kw'>=</span> <span class='fl'>FALSE</span>,
-  <span class='no'>pch.show2</span>, <span class='no'>col.show2</span>, <span class='no'>cex.show2</span>)</pre>
+  <span class='no'>col.transect</span>, <span class='no'>lwd.transect</span>, <span class='no'>col.scaleBar</span>, <span class='no'>lwd.scaleBar</span>, <span class='no'>showAnnuliLabels</span>,
+  <span class='no'>annuliLabels</span>, <span class='no'>col.ann</span>, <span class='no'>cex.ann</span>, <span class='kw'>showOrigPts</span> <span class='kw'>=</span> <span class='fl'>FALSE</span>, <span class='no'>pch.show2</span>, <span class='no'>col.show2</span>,
+  <span class='no'>cex.show2</span>)</pre>
     
     <h2 class="hasAnchor" id="arguments"><a class="anchor" href="#arguments"></a>Arguments</h2>
     <table class="ref-arguments">
@@ -174,6 +175,22 @@
     </tr>
     <tr>
       <th>lwd.scaleBar</th>
+      <td><p>See details in <code><a href='RFBCoptions.html'>RFBCoptions</a></code>.</p></td>
+    </tr>
+    <tr>
+      <th>showAnnuliLabels</th>
+      <td><p>See details in <code><a href='RFBCoptions.html'>RFBCoptions</a></code>.</p></td>
+    </tr>
+    <tr>
+      <th>annuliLabels</th>
+      <td><p>See details in <code><a href='RFBCoptions.html'>RFBCoptions</a></code>.</p></td>
+    </tr>
+    <tr>
+      <th>col.ann</th>
+      <td><p>See details in <code><a href='RFBCoptions.html'>RFBCoptions</a></code>.</p></td>
+    </tr>
+    <tr>
+      <th>cex.ann</th>
       <td><p>See details in <code><a href='RFBCoptions.html'>RFBCoptions</a></code>.</p></td>
     </tr>
     <tr>

diff --git a/docs/reference/digitizeRadii.html b/docs/reference/digitizeRadii.html
@@ -247,6 +247,9 @@
 <li><p><code>basenm</code>: The filename given in <code>img</code> without the path.</p></li>
 <li><p><code>dirnm</code>: The directory in which <code>img</code> was located.</p></li>
 <li><p><code>datanm</code>: The filename that contains the RData object.</p></li>
+<li><p><code>edgeIsAnnulus</code>: The logical given in <code>edgeIsAnnulus</code>.</p></li>
+<li><p><code>slpTransect</code>: The slope of the transect.</p></li>
+<li><p><code>slpTransect</code>: The intercept of the transect.</p></li>
 <li><p><code>pts</code>: A data.frame that contains the <code>x</code> and <code>y</code> coordinates on the image for the selected annuli. These points may be &#8220;snapped&#8221; to the transect if <code>snap2Transect==TRUE</code>.</p></li>
 <li><p><code>orig.pts</code>: A data.frame that contains the &#8220;original&#8221; <code>x</code> and <code>y</code> coordinates on the image for the selected annuli. If <code>snap2Transect=FALSE</code> then these are the same as the points in <code>pts</code>. If <code>snap2Transect=TRUE</code> then these are the originally selected points and will be different then the points in <code>pts</code>.</p></li>
 <li><p><code>radii</code>: A data.frome that contains the unique <code>id</code>, the <code>reading</code> code, the age-at-capture in <code>agecap</code>, the annulus number in <code>ann</code>, the radial measurements in <code>rad</code>, and the radial measurement at capture in <code>radcap</code>.</p></li>
